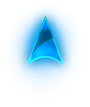
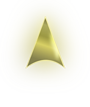
x

Changed region(s): [[0.2, 0.1121, 0.7778, 0.729]]

diff --git a/index.html b/index.html
@@ -7,17 +7,17 @@
 
         <meta property="fb:app_id" content="543975688973172" />
         
-        <link rel="stylesheet" type="text/css" href="css/style.css?V=3">
-        <link rel="stylesheet" type="text/css" href="css/animation.css?V=3">
+        <link rel="stylesheet" type="text/css" href="css/style.css?V=9">
+        <link rel="stylesheet" type="text/css" href="css/animation.css?V=9">
         <link rel="stylesheet" type="text/css" href="css/idangerous.swiper.css">
-        <link rel="stylesheet" media="screen and (max-width:699px)" href="css/small.css?V=3" />
-        <link rel="stylesheet" media="screen and (min-width: 700px) and (max-width:1399px)" href="css/normal.css?V=3" />
-        <link rel="stylesheet" media="screen and (min-width: 1400px)" href="css/large.css?V=3" />
+        <link rel="stylesheet" media="screen and (max-width:699px)" href="css/small.css?V=9" />
+        <link rel="stylesheet" media="screen and (min-width: 700px) and (max-width:1399px)" href="css/normal.css?V=9" />
+        <link rel="stylesheet" media="screen and (min-width: 1400px)" href="css/large.css?V=9" />
         <!--    <link rel="stylesheet" media="screen and (device-width: 240px)" href="css/andrd_small_2.css" /> <!--for galaxy s2 need to be tested-->
-         <link rel="stylesheet" media="screen and (device-width: 360px)" href="css/andrd_small.css?V=3" />  <!--for galaxy s4 -s3 need to be tested-->
-          <link rel="stylesheet" media="screen and (device-width: 800px)" href="css/andrd_normal.css?V=3" /><!--for galaxy tab 2 --> 
+         <link rel="stylesheet" media="screen and (device-width: 360px)" href="css/andrd_small.css?V=9" />  <!--for galaxy s4 -s3 need to be tested-->
+          <link rel="stylesheet" media="screen and (device-width: 800px)" href="css/andrd_normal.css?V=9" /><!--for galaxy tab 2 --> 
         <!--<link rel="stylesheet" media="screen and (min-width:360px) and (max-width:699px) and (min-height:640px)" href="css/andrd_small.css" />-->
-        <link rel="stylesheet" media="screen and (max-width:320px) and (min-height:548px)" href="css/iphone5.css?V=3" /><!--for iphone5 needs to be tested-->
+        <link rel="stylesheet" media="screen and (max-width:320px) and (min-height:548px)" href="css/iphone5.css?V=9" /><!--for iphone5 needs to be tested-->
        <!-- <link rel="stylesheet" media="screen and (max-width:320px) and (max-height:533px)" href="css/andrd_small_2.css" />-->
         <!------------------------------------general scripts and plugins------------------------------------------>
         <!--<script src="js/jq.js"></script>-->
@@ -27,8 +27,8 @@
         <!--<script src="http://code.jquery.com/mobile/1.3.1/jquery.mobile-1.3.1.min.js"></script>-->
         <!--<script src="js/jquery-ui-touch-punch.js" type="text/javascript"></script>-->
 		<script src="js/jquery.ui.touch-punch.min.js"></script>
-        <script src="js/pollController.js?V=3"></script>
-        <script src="js/serverRequest.js?V=3"></script>
+        <script src="js/pollController.js?V=9"></script>
+        <script src="js/serverRequest.js?V=9"></script>
         <script src="https://connect.facebook.net/en_US/all.js"></script>
         <!------------------------------------ internal scripts  ------------------------------------------>
         <script src="js/script.js"></script>
@@ -300,7 +300,7 @@
                         <div id="slideSingleRight">
                             <div id="slideRight" class="slideRight">
                                 <div class="slideGo btn">
-                                    <img src="images/votes/slide_pick_heart.png" class="arrowBlue" alt="c">
+                                    <img src="images/votes/slide_pick_heart.png?v=9" class="arrowBlue" alt="c">
                                     <h1>עבר</h1>
                                     <div class="like"></div>
                                 </div>
@@ -334,7 +334,7 @@
 
                             <div id="slideDownbattleCon2" class="slideDownbattle con1">
                                 <div class="slideStay btn">
-                                    <img src="images/votes/slide_pick_heart.png" class="blueArrow cont1" alt="c">
+                                    <img src="images/votes/slide_pick_heart.png?v=9" class="blueArrow cont1" alt="c">
                                 </div>
 								<h1>עבר</h1> 
                                 <div class="love1"></div>
@@ -357,7 +357,7 @@
 
                             <div id="slideDownbattleCon1" class="slideDownbattle con2">
                                 <div class="slideStay btn">
-                                    <img src="images/votes/slide_pick_heart.png" class="blueArrow cont2" alt="c">
+                                    <img src="images/votes/slide_pick_heart.png?v=9" class="blueArrow cont2" alt="c">
                                 </div>
                                  <h1>עבר</h1> 
                                 <div class="love2"></div>
@@ -771,14 +771,14 @@
             </audio>
         </div>
         <!------------------------------------ internal scripts  ------------------------------------------>
-        <script src="js/navigation.js?V=3"></script>
-        <script src="js/pages.js?V=3"></script>
-        <script src="js/register.js?V=3"></script>
-        <script src="js/vote.js?V=3"></script>
-        <script src="js/result.js?V=3"></script>
-        <script src="js/gallery.js?V=3"></script>
-        <script src="js/sounds.js?V=3"></script>
-        <script src="js/voteanimatiom.js?V=3"></script>
+        <script src="js/navigation.js?V=9"></script>
+        <script src="js/pages.js?V=9"></script>
+        <script src="js/register.js?V=9"></script>
+        <script src="js/vote.js?V=9"></script>
+        <script src="js/result.js?V=9"></script>
+        <script src="js/gallery.js?V=9"></script>
+        <script src="js/sounds.js?V=9"></script>
+        <script src="js/voteanimatiom.js?V=9"></script>
         <script>
             $(document).ready(function (e) {
             

diff --git a/css/style.css b/css/style.css
@@ -1292,7 +1292,8 @@ left: 2px;
 .slideGo h1, .contestant2 .slideDownbattle h1, .contestant1 .slideDownbattle h1 {
     position: absolute;
     top: 38%;
-    color: #00a9ff;  /* blue.  VICE VERSA... */
+    /*color: #00a9ff;*/  /* blue.  VICE VERSA... */
+    color: #e3e275;
 }
 
 .slideStay h1, .contestant2 .slideTopbattle h1, .contestant1 .slideTopbattle h1 ,.slideGo h1, .contestant2 .slideDownbattle h1, .contestant1 .slideDownbattle h1  {
@@ -1347,7 +1348,7 @@ left: 2px;
 }
 
 .like {
-background-image: url(../images/votes/slide_round_pick.png);
+background-image: url(../images/votes/slide_round_pick.png?v=9);
 position: absolute;
 width: 54%;
 height: 100%;
@@ -1377,7 +1378,7 @@ transform: rotateZ(-180deg);
 }
 
 .love1 {
-    background-image: url(../images/votes/slide_round_pick.png);
+    background-image: url(../images/votes/slide_round_pick.png?v=9);
     position: absolute;
     width: 37%;
     height: 100%;
@@ -1391,7 +1392,7 @@ transform: rotateZ(-180deg);
 }
 
 .love2 {
-    background-image: url(../images/votes/slide_round_pick.png);
+    background-image: url(../images/votes/slide_round_pick.png?v=9);
     position: absolute;
     width: 37%;
     height: 100%;
